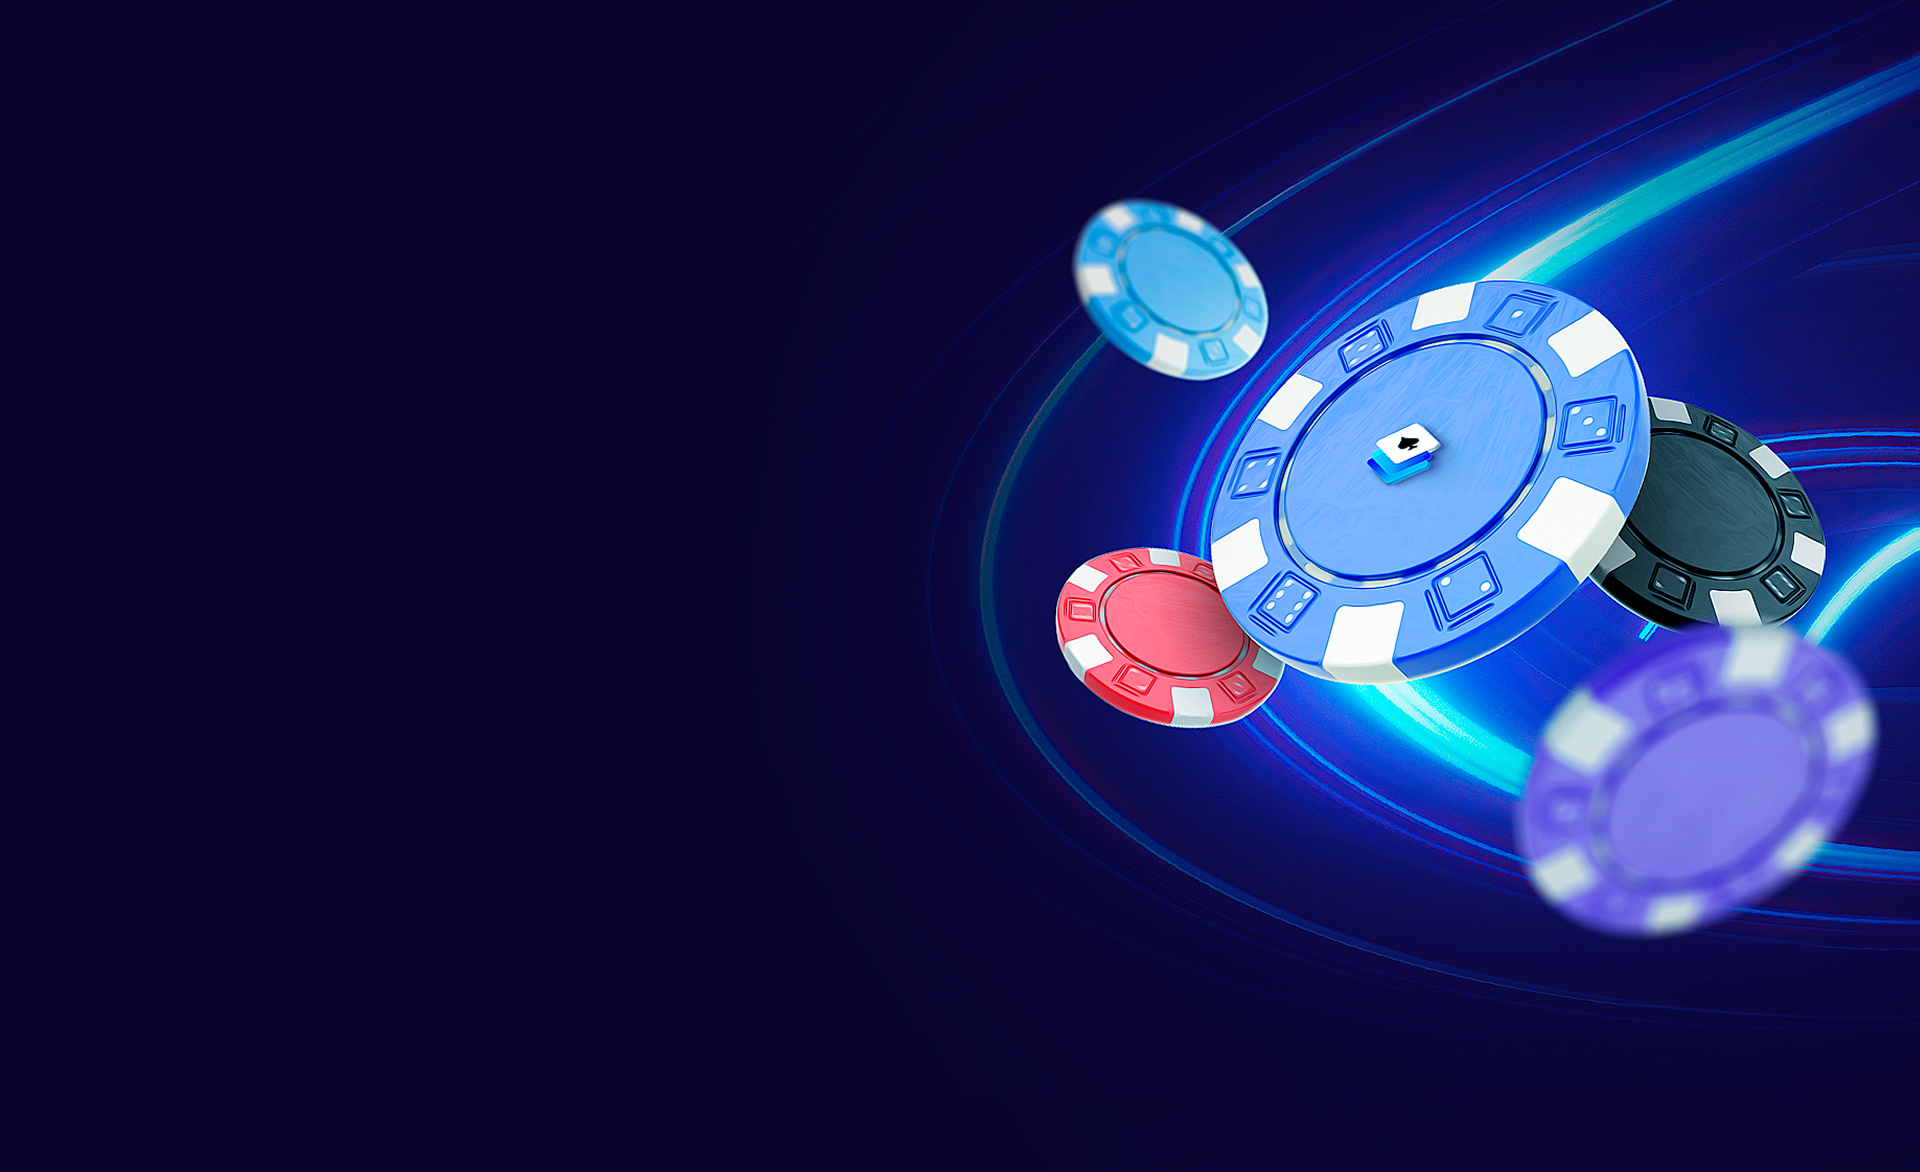
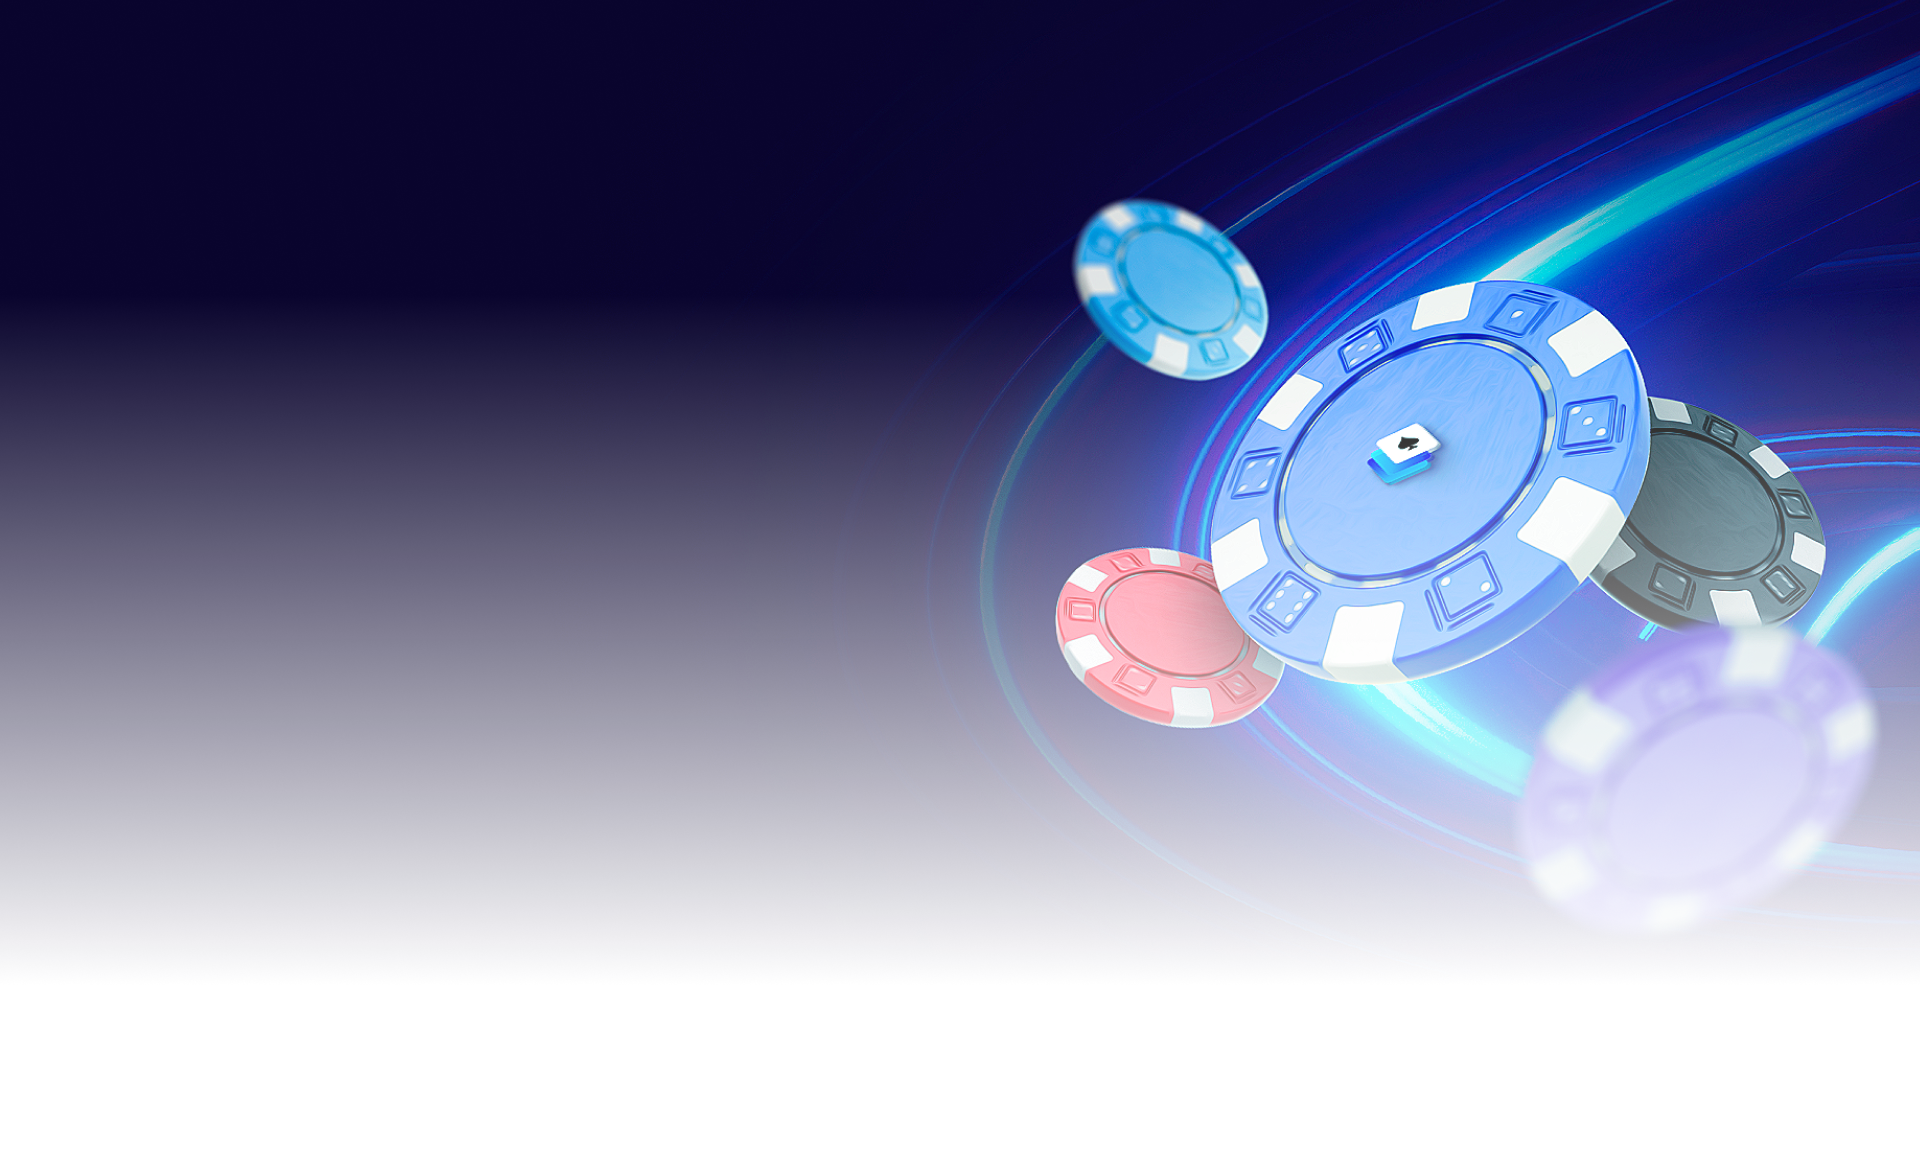
Desktop: Pequenas alterações na section outdoor

diff --git a/src/components/Outdoor.jsx b/src/components/Outdoor.jsx
@@ -19,16 +19,16 @@ function Outdoor() {
           style={{ backgroundImage: `url(${OutdoorBgDk})` }}
         />
 
-        <div className="relative z-10 flex sm:w-[80%] flex-col sm:items-start items-center mt-[3rem] sm:mt-[5rem]">
+        <div className="relative z-10 flex sm:w-[70%] flex-col sm:items-start items-center mt-[3rem] sm:mt-[5rem]">
           {/* Imagem não precisa ser absolute — apenas ajustada no layout */}
 
           <img src={Logo} alt="Logo" className="sm:hidden" />
           <img src={LogoDk} alt="Logo" className="sm:block hidden" />
 
-          <div className="flex flex-col sm:w-[40%] w-[85%] mt-[25.8rem] sm:mt-[9rem]">
-            <h2 className="text-white text-center sm:text-start leading-tight text-[24px] sm:text-[44px] font-[600]">
+          <div className="flex flex-col sm:w-[40%] w-[85%] mt-[25.8rem] sm:mt-[9rem] sm:whitespace-nowrap">
+            <h2 className="text-white text-center sm:text-start leading-tight  text-[24px] sm:text-[44px] font-[600]">
               Você vai se tornar o pior <br className="hidden sm:block" />{" "}
-              pesadelo dos cassinos online,{" "}
+              pesadelo dos cassinos online, <br />
               <span className="text-[23px] sm:text-[44px] font-[600] text-center leading-tight text-transparent bg-clip-text bg-gradient-to-r from-[#03BDE3] to-[#0515E7]">
                 enchendo o bolso de dinheiro
               </span>
@@ -64,7 +64,7 @@ function Outdoor() {
               </p>
             </div>
 
-            <p className="text-[16px] font-[400] text-[white] sm:text-[20px] sm:text-start text-center mt-[1.5rem]">
+            <p className="text-[16px] font-[400] text-[white] sm:text-[20px] sm:whitespace-nowrap sm:text-start text-center mt-[1.5rem]">
               Tenha em mãos o sistema exclusivo do TipMiner para{" "}
               <br className="hidden sm:block" /> dominar os resultados dos jogos
               online. Garanta seus <br className="hidden sm:block" />
@@ -75,7 +75,7 @@ function Outdoor() {
           </div>
 
           {/* Botão */}
-          <a className="text-[white] mt-[2.5rem] text-[14px] sm:w-[32%] sm:py-[1.1rem] sm:text-[20px] w-[85%] text-center px-[1.3rem] py-[0.8rem] rounded-md font-[600] bg-gradient-to-r from-[#02C1E3] to-[#0412E7]">
+          <a className="text-[white] mt-[2.5rem] text-[14px] sm:w-[29rem] sm:justify-center sm:flex sm:whitespace-nowrap sm:py-[1.1rem] sm:text-[20px] w-[85%] text-center px-[1.3rem] py-[0.8rem] rounded-md font-[600] bg-gradient-to-r from-[#02C1E3] to-[#0412E7]">
             Quero aumentar meus lucros com o TipMiner
           </a>
 
@@ -86,14 +86,17 @@ function Outdoor() {
             className="mt-[4rem] w-full block sm:hidden"
           />
 
-          <img
-            src={LogosBetsDk}
-            alt="Parceiros"
-            className="mt-[15rem] hidden sm:block"
-          />
+          <div class="relative w-full h-[10rem] flex justify-center items-center top-[10rem]">
+            <img
+              src={LogosBetsDk}
+              alt="Parceiros"
+              className="absolute left-1/2 transform -translate-x-1/2 hidden sm:w-full sm:block"
+            />
+            <div class="pointer-events-none absolute inset-0 bg-gradient-to-r from-[#080126] via-white/0 via-70% to-[#080126]" />
+          </div>
 
           {/* Bloco informativo */}
-          <div className="p-[1.5px] bg-gradient-to-b from-[#5F858E] to-[#100a2e] rounded-2xl w-[85%] mt-[4rem]">
+          <div className="p-[1.5px] bg-gradient-to-b from-[#5F858E] to-[#100a2e] rounded-2xl w-[85%] sm:mt-[15rem] mt-[4rem]">
             <div className="bg-[#100a2e] backdrop-blur-md py-[3rem] rounded-2xl text-[white] text-center flex flex-col justify-center items-center">
               <div className="flex flex-col w-[85%]">
                 <h2 className="font-[600] text-[32px]">
